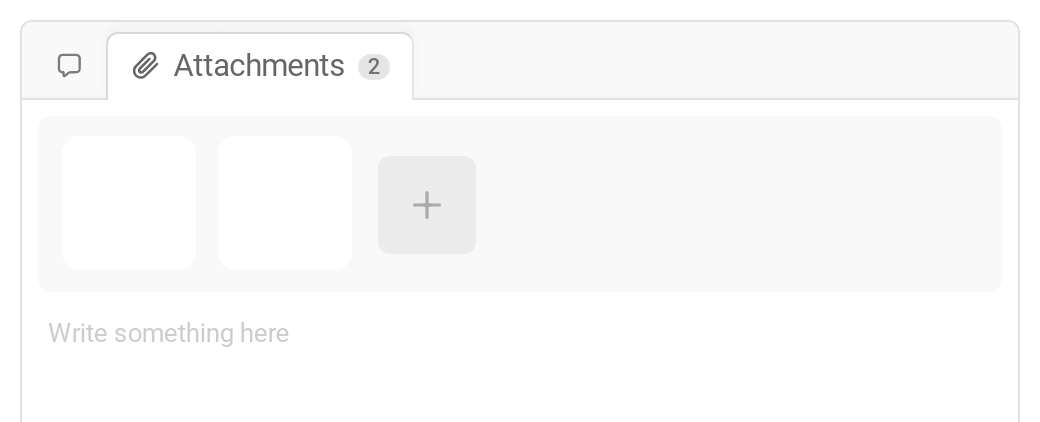
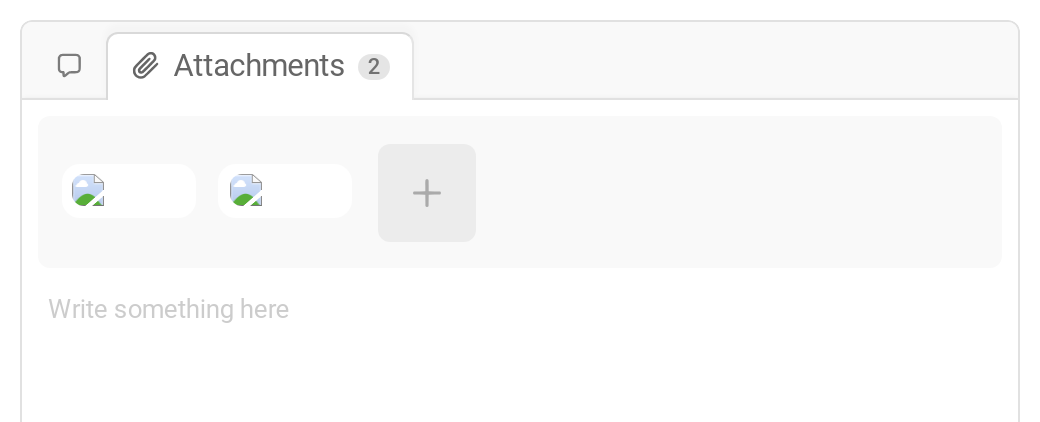
Respect aspect ratio on thumbnails

diff --git a/src/thumbnail/Thumbnail.ts b/src/thumbnail/Thumbnail.ts
@@ -3,7 +3,6 @@ import { RapidElement } from '../RapidElement';
 import { property } from 'lit/decorators.js';
 import { getClasses } from '../utils';
 import { Lightbox } from '../lightbox/Lightbox';
-import { styleMap } from 'lit-html/directives/style-map.js';
 import { WebChatIcon } from '../webchat';
 
 enum ThumbnailContentType {
@@ -48,8 +47,7 @@ export class Thumbnail extends RapidElement {
       .zoom .thumb {
         border-radius: 0px !important;
         width: calc(var(--thumb-size, 4em) + 0.8em);
-        height: calc(var(--thumb-size, 4em) + 0.8em);
-        max-height: calc(var(--thumb-size, 4em) + 0.8em);
+        max-height: calc(90vh - 10em);
       }
 
       .thumb {
@@ -57,8 +55,7 @@ export class Thumbnail extends RapidElement {
         background-position: center;
         background-repeat: no-repeat;
         border-radius: var(--curvature);
-        max-height: var(--thumb-size, 4em);
-        height: var(--thumb-size, 4em);
+        max-height: calc(var(--thumb-size, 4em) * 2);
         width: var(--thumb-size, 4em);
         display: flex;
         align-items: center;
@@ -84,8 +81,24 @@ export class Thumbnail extends RapidElement {
         display: block;
       }
 
-      .zoom temba-icon {
+      .download {
         display: none;
+        position: absolute;
+        right: 0em;
+        bottom: 0em;
+        border-radius: var(--curvature);
+        transform: scale(0.2) translate(3em, 3em);
+        padding: 0.4em;
+      }
+
+      .zoom .download {
+        display: block;
+        background: rgba(0, 0, 0, 0.5);
+      }
+
+      .zoom .download:hover {
+        background: rgba(0, 0, 0, 0.6);
+        cursor: pointer;
       }
     `;
   }
@@ -95,6 +108,12 @@ export class Thumbnail extends RapidElement {
 
   @property({ type: String })
   attachment: string;
+
+  @property({ type: Number })
+  ratio: number = 0;
+
+  @property({ type: Boolean })
+  preview: boolean = true;
 
   @property({ type: Boolean, attribute: false })
   zoom: boolean;
@@ -106,6 +125,23 @@ export class Thumbnail extends RapidElement {
     changes: PropertyValueMap<any> | Map<PropertyKey, unknown>
   ): void {
     super.updated(changes);
+
+    if (
+      changes.has('contentType') &&
+      this.contentType === ThumbnailContentType.IMAGE
+    ) {
+      const toObserve = this.shadowRoot.querySelector('.observe');
+      if (toObserve) {
+        new ResizeObserver((e, observer) => {
+          if (toObserve.clientHeight > 0 && toObserve.clientWidth > 0) {
+            this.ratio = toObserve.clientHeight / toObserve.clientWidth;
+            this.preview =
+              this.ratio === 0 || (this.ratio > 0.25 && this.ratio <= 1.5);
+            observer.disconnect();
+          }
+        }).observe(toObserve);
+      }
+    }
 
     // convert our attachment to a url and label
     if (changes.has('attachment')) {
@@ -134,7 +170,7 @@ export class Thumbnail extends RapidElement {
   }
 
   public handleThumbnailClicked() {
-    if (this.contentType === ThumbnailContentType.IMAGE) {
+    if (this.contentType === ThumbnailContentType.IMAGE && this.preview) {
       window.setTimeout(() => {
         const lightbox = document.querySelector('temba-lightbox') as Lightbox;
         lightbox.showElement(this);
@@ -144,6 +180,14 @@ export class Thumbnail extends RapidElement {
     }
   }
 
+  public handleDownload(e: Event) {
+    e.stopPropagation();
+    e.preventDefault();
+
+    // open this.url in another tab
+    window.open(this.url, '_blank');
+  }
+
   public render() {
     return html`
       <div
@@ -151,21 +195,21 @@ export class Thumbnail extends RapidElement {
         class="${getClasses({ wrapper: true, zoom: this.zoom })}"
         url=${this.url}
       >
-        <div
-          class="thumb ${this.contentType} "
-          style="${this.url
-            ? styleMap({
-                backgroundImage: `url(${this.url})`
-              })
-            : ''}"
-        >
-          ${this.contentType !== ThumbnailContentType.IMAGE
-            ? html`<temba-icon
+        ${this.contentType === ThumbnailContentType.IMAGE && this.preview
+          ? html`<div class=""><div class="download" @click=${this.handleDownload.bind(
+              this
+            )}><temba-icon size="1" style="color:#fff;" name="download"></temba-icon></div><img
+          class="observe thumb ${this.contentType}"
+          src="${this.url}"
+        ></img></div>`
+          : html`<div
+              style="padding:1em; background:rgba(0,0,0,.05);border-radius:var(--curvature);"
+            >
+              <temba-icon
                 size="1.5"
                 name="${ThumbnailIcons[this.contentType]}"
-              ></temba-icon>`
-            : null}
-        </div>
+              ></temba-icon>
+            </div>`}
       </div>
     `;
   }

diff --git a/src/lightbox/Lightbox.ts b/src/lightbox/Lightbox.ts
@@ -41,6 +41,19 @@ export class Lightbox extends RapidElement {
         overflow: hidden;
         box-shadow: 0 0 12px 3px rgba(0, 0, 0, 0.15);
       }
+
+      .download {
+        background: rgba(0, 0, 0, 0.5);
+        position: absolute;
+        display:flex;
+        align-items:center;
+        color:#fff;
+        padding:0.5em;
+        border-radius:var(--curvature);
+        background:rgba(0,0,0,0.5);
+      }
+
+  }
     `;
   }
 
@@ -62,8 +75,8 @@ export class Lightbox extends RapidElement {
   private height: number;
   private width: number;
   private scale = 1;
-  private xTrans = '0px';
-  private yTrans = '0px';
+  private xTrans = 0;
+  private yTrans = 0;
 
   protected updated(
     changed: PropertyValueMap<any> | Map<PropertyKey, unknown>
@@ -92,8 +105,8 @@ export class Lightbox extends RapidElement {
     this.width = bounds.width;
     this.height = bounds.height;
 
-    this.xTrans = '0px';
-    this.yTrans = '0px';
+    this.xTrans = 0;
+    this.yTrans = 0;
     this.scale = 1;
 
     let desiredWidth = this.width;
@@ -116,11 +129,11 @@ export class Lightbox extends RapidElement {
 
     const xGrowth = (desiredWidth - this.width) / 2;
     const xDest = (window.innerWidth - desiredWidth) / 2;
-    this.xTrans = xDest - this.left + xGrowth + 'px';
+    this.xTrans = xDest - this.left + xGrowth;
 
     const yGrowth = (desiredHeight - this.height) / 2;
     const yDest = (window.innerHeight - desiredHeight) / 2;
-    this.yTrans = yDest - this.top + yGrowth + 'px';
+    this.yTrans = yDest - this.top + yGrowth;
 
     this.scale = desiredScale;
     this.show = true;
@@ -139,13 +152,13 @@ export class Lightbox extends RapidElement {
       styles['left'] = this.left + 'px';
       styles['top'] = this.top + 'px';
       styles['width'] = this.width + 'px';
-      styles['height'] = this.height + 'px';
+      // styles['height'] = this.height + 'px';
     }
 
     if (this.zoom) {
       styles[
         'transform'
-      ] = `translate(${this.xTrans}, ${this.yTrans}) scale(${this.scale}, ${this.scale})`;
+      ] = `translate(${this.xTrans}px, ${this.yTrans}px) scale(${this.scale}, ${this.scale})`;
     }
 
     return html`
@@ -162,9 +175,18 @@ export class Lightbox extends RapidElement {
           style="transition: all ${this.animationTime}ms; ease"
         ></div>
         <div class=${getClasses({ matte: true })} style=${styleMap(styles)}>
-          ${this.show ? this.ele : null}
+          ${this.show ? html`${this.ele}` : null}
         </div>
       </div>
+
+      <!--div
+        class="download ${this.show ? 'visible' : ''}"
+        style="top:${this.height * this.scale}px;left:${this.left +
+      this.xTrans}px;"
+      >
+        <div style="padding:0.2em;margin-right:0.5em">Download</div>
+        <temba-icon size="1" name="download"></temba-icon>
+      </div-->
     `;
   }
 }

diff --git a/demo/index.html b/demo/index.html
@@ -127,7 +127,7 @@
 </head>
 
 <body>
-  <temba-webchat channel="5ea6f54b-96b0-4e0f-aa00-c6cccc588a55"></temba-webchat>
+  <temba-webchat channel="967cd415-8616-4b11-b38f-60f70e0999f4"></temba-webchat>
   <temba-store completion="/static/api/completion.json" functions="/static/api/functions.json"
     fields="/static/api/fields.json" globals="/static/api/globals.json" groups="/static/api/groups.json"></temba-store>
 

diff --git a/src/mediapicker/MediaPicker.ts b/src/mediapicker/MediaPicker.ts
@@ -47,6 +47,7 @@ export class MediaPicker extends RapidElement {
         flex-direction: row;
         flex-wrap: wrap;
         padding: 0.2em;
+        align-items: center;
       }
 
       .attachment-item {
